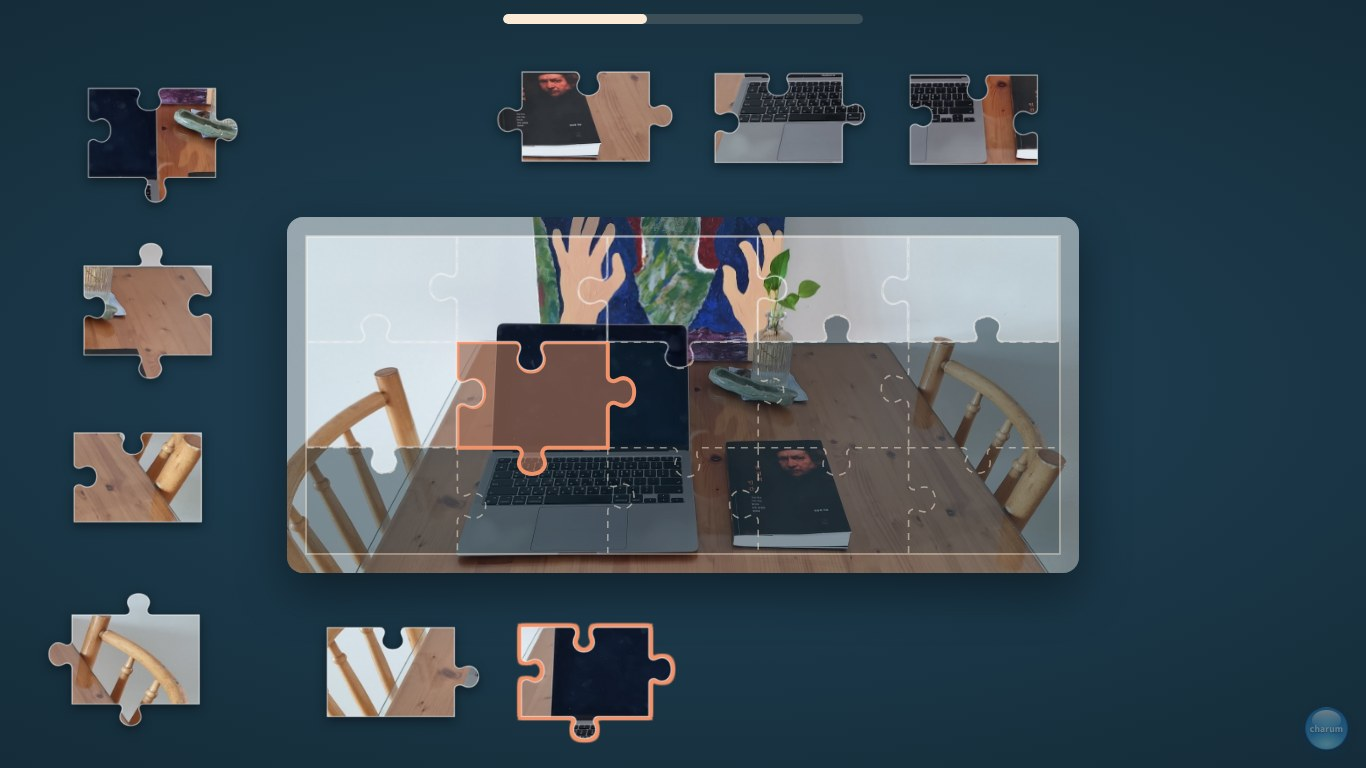
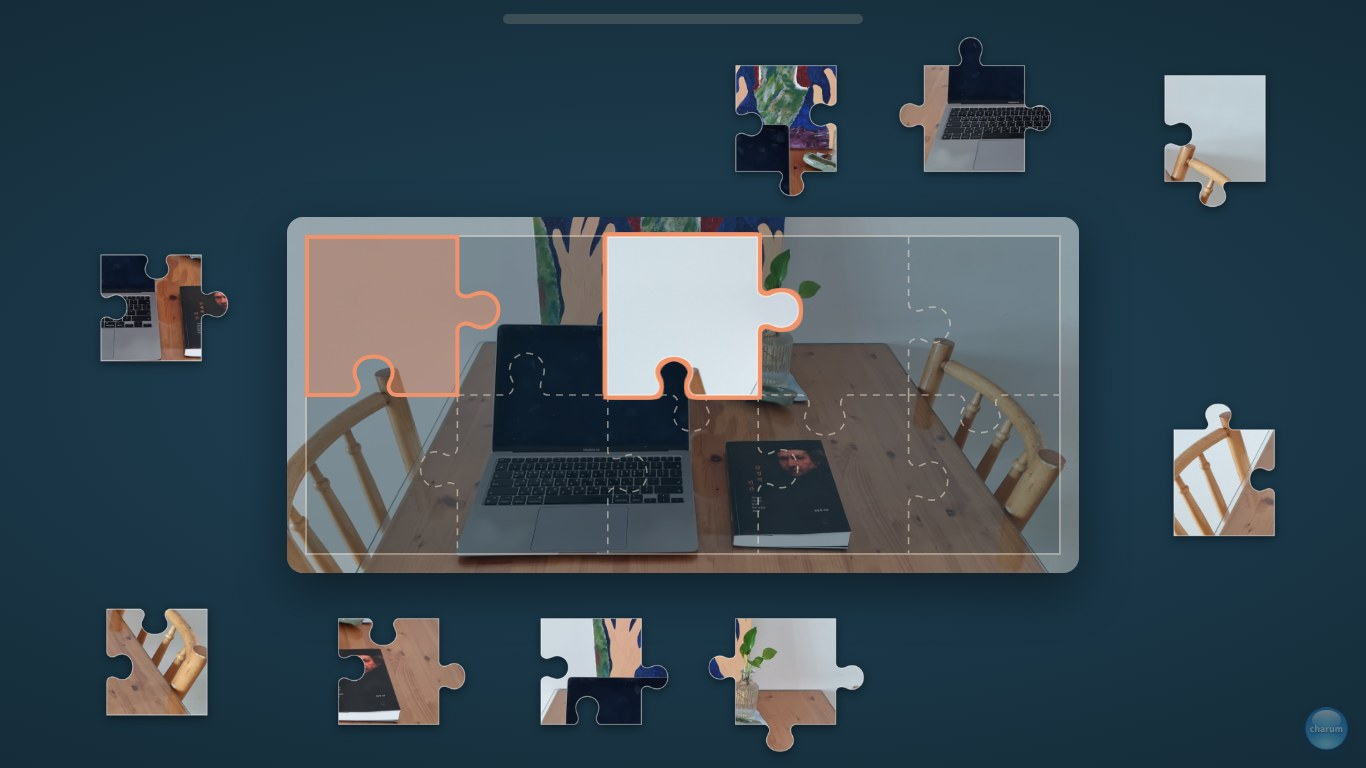
Add files via upload

diff --git a/002/picture-puzzle.html b/002/picture-puzzle.html
@@ -104,10 +104,12 @@ body.solo #soloBtns{display:flex}
 .pc.gone{opacity:0}
 
 /* ---------- 교사 모드: 떠 있는 두 줄 ---------- */
-.dock{position:fixed;left:50%;transform:translateX(-50%);z-index:30;display:none;align-items:center;gap:6px;flex-wrap:wrap;justify-content:center;
+.dock{position:fixed;left:0;right:0;margin:0 auto;width:fit-content;z-index:30;display:none;align-items:center;gap:6px;flex-wrap:wrap;justify-content:center;
   max-width:calc(100% - 24px);padding:8px 10px;border-radius:22px;background:rgba(15,36,48,.9);-webkit-backdrop-filter:blur(8px);backdrop-filter:blur(8px);
   box-shadow:0 10px 30px rgba(0,0,0,.35),inset 0 0 0 1px rgba(251,235,214,.14)}
 #dockTop{top:10px} #dockBot{bottom:12px}
+/* 도움말: 교사 메뉴 오른쪽 위 끝 */
+#helpTop{left:auto;right:12px;margin:0;padding:6px}
 body.admin:not(.setup) .dock{display:flex}
 .dock .grp{display:flex;align-items:center;gap:4px;padding:0 6px}
 .dock .grp+.grp{border-left:1px solid rgba(251,235,214,.18)}
@@ -158,6 +160,20 @@ body.admin #adminBtn{opacity:.6;border-color:rgba(10,20,26,.8);
   .pa-log{width:100%;border-collapse:collapse;font-size:9.5pt;margin-top:3mm}
   .pa-log td{border:1px solid #999;padding:1.2mm 2mm;text-align:left}
 }
+/* ---------- 도움말: 말풍선 둘러보기 ---------- */
+#tour{position:fixed;inset:0;z-index:70;display:none}
+#tour.show{display:block}
+#tourHole{position:fixed;border-radius:16px;box-shadow:0 0 0 9999px rgba(5,14,20,.62);transition:all .25s ease;pointer-events:none}
+#tourTip{position:fixed;width:min(340px,calc(100% - 24px));background:var(--cream);color:var(--ink);border-radius:16px;box-shadow:0 14px 40px rgba(0,0,0,.45);padding:16px 18px 12px;transition:top .25s ease,left .25s ease;font-family:var(--f-body)}
+#tourTip::before{content:"";position:absolute;left:var(--ax,40px);width:16px;height:16px;background:var(--cream);transform:rotate(45deg)}
+#tourTip.below::before{top:-7px} #tourTip.above::before{bottom:-7px}
+#tourTip h4{margin:0 0 6px;font-size:17px;font-family:var(--f-display);font-weight:400}
+#tourTip p{margin:0;font-size:14.5px;line-height:1.6}
+.tour-foot{display:flex;align-items:center;justify-content:space-between;margin-top:12px}
+.tour-foot span{font-size:12.5px;color:var(--muted);font-weight:700}
+.tour-foot div{display:flex;gap:6px}
+.tour-foot button{border:0;border-radius:10px;min-height:40px;padding:6px 14px;font-weight:700;font-size:14px;background:#EAD6BB;color:var(--ink);font-family:var(--f-body)}
+.tour-foot button.next{background:var(--coral)}
 @media (prefers-reduced-motion:reduce){.pc.anim,.pc.scatter,.pboard .full,.pc.placed,#prog i,#doneLabel{transition:none}}
 </style>
 </head>
@@ -174,8 +190,11 @@ body.admin #adminBtn{opacity:.6;border-color:rgba(10,20,26,.8);
 </div>
 <div class="dock" id="dockTop"></div>
 <div class="dock" id="dockBot"></div>
+<div class="dock" id="helpTop"></div>
 <div id="logPop" hidden></div>
 <button id="adminBtn" type="button" aria-label="교사 모드: 3초 동안 누르기"><span class="ab-label" id="abLabel">charum</span></button>
+<div id="tour"><div id="tourHole"></div><div id="tourTip" class="below"><h4 id="tourTitle"></h4><p id="tourText"></p>
+  <div class="tour-foot"><span id="tourStep"></span><div><button type="button" id="tourEnd">그만</button><button type="button" class="next" id="tourNext">다음</button></div></div></div></div>
 <div id="printArea"></div>
 
 <script>
@@ -196,7 +215,9 @@ const ICON={
   log:'<svg class="ic" viewBox="0 0 24 24"><path d="M5 4h14v16H5zM9 9h6M9 13h6M9 17h3"/></svg>',
   sndOn:'<svg class="ic" viewBox="0 0 24 24"><path d="M4 9h4l5-4v14l-5-4H4z"/><path d="M16.5 8.5a5 5 0 0 1 0 7"/></svg>',
   sndOff:'<svg class="ic" viewBox="0 0 24 24"><path d="M4 9h4l5-4v14l-5-4H4z"/><path d="M17 9.5l5 5M22 9.5l-5 5"/></svg>',
-  gear:'<svg class="ic" viewBox="0 0 24 24"><path d="M4 7h10M18 7h2M4 17h4M12 17h8"/><circle cx="16" cy="7" r="2"/><circle cx="10" cy="17" r="2"/></svg>'
+  gear:'<svg class="ic" viewBox="0 0 24 24"><path d="M4 7h10M18 7h2M4 17h4M12 17h8"/><circle cx="16" cy="7" r="2"/><circle cx="10" cy="17" r="2"/></svg>',
+  play:'<svg class="ic" viewBox="0 0 24 24"><path d="M7 4.5v15l12-7.5z" fill="currentColor"/></svg>',
+  q:'<svg class="ic" viewBox="0 0 24 24"><circle cx="12" cy="12" r="9.5"/><path d="M9.4 9.4a2.7 2.7 0 1 1 3.7 2.5c-.7.3-1.1.9-1.1 1.7v.5M12 17.2h.01"/></svg>'
 };
 /* 단계: 가로 5칸 고정, 줄 수 = 단계 */
 const LEVELS={1:{cols:5,rows:1},2:{cols:5,rows:2},3:{cols:5,rows:3},4:{cols:5,rows:4},5:{cols:5,rows:5}};
@@ -248,24 +269,33 @@ function leaveFull(){ try{ if(document.fullscreenElement) document.exitFullscree
 $('play').addEventListener('pointerdown',()=>{ if(!document.body.classList.contains('setup')) goFull(); },true);
 document.addEventListener('contextmenu',e=>{ if(!document.body.classList.contains('setup')) e.preventDefault(); });
 
-/* ================= 교사 모드 버튼 (3초 누르기) ================= */
+/* ================= 교사 모드 버튼 =================
+   열 때: 3초 동안 누르기 (학생이 실수로 열지 않게)
+   닫을 때: 한 번 누르면 바로 학생 화면(전체 화면) */
 (function(){
-  const ab=$('adminBtn'); let raf=0, t0=0, on=false;
+  const ab=$('adminBtn'); let raf=0, t0=0, on=false, justOpened=false, ignoreUntil=0;
   const stop=()=>{on=false; cancelAnimationFrame(raf); ab.style.setProperty('--p',0);};
   ab.addEventListener('pointerdown',e=>{
-    e.preventDefault(); e.stopPropagation(); try{ab.setPointerCapture(e.pointerId);}catch(_){}
+    e.preventDefault(); e.stopPropagation();
+    if(S.admin) return; /* 닫기는 click에서 바로 */
+    try{ab.setPointerCapture(e.pointerId);}catch(_){}
     on=true; t0=performance.now();
     const tick=()=>{ if(!on) return;
       const p=Math.min(1,(performance.now()-t0)/3000); ab.style.setProperty('--p',p);
-      if(p>=1){stop(); setAdmin(!S.admin); return;} raf=requestAnimationFrame(tick); };
+      if(p>=1){stop(); justOpened=true; setAdmin(true); return;} raf=requestAnimationFrame(tick); };
     raf=requestAnimationFrame(tick);
   });
-  ['pointerup','pointercancel','lostpointercapture'].forEach(ev=>ab.addEventListener(ev,stop));
+  ['pointerup','pointercancel','lostpointercapture'].forEach(ev=>ab.addEventListener(ev,()=>{ stop(); if(justOpened){ justOpened=false; ignoreUntil=performance.now()+500; } }));
+  ab.addEventListener('click',e=>{
+    e.stopPropagation();
+    if(performance.now()<ignoreUntil) return; /* 3초 눌러 연 직후 손을 뗄 때 생기는 click은 무시 */
+    if(S.admin){ setAdmin(false); goFull(); }
+  });
   ab.addEventListener('contextmenu',e=>e.preventDefault());
 })();
 function setAdmin(on){
   S.admin=on; document.body.classList.toggle('admin',on);
-  $('adminBtn').setAttribute('aria-label', on?'교사 모드 끄기: 3초 동안 누르기':'교사 모드: 3초 동안 누르기');
+  $('adminBtn').setAttribute('aria-label', on?'교사 모드 끄기: 한 번 누르기':'교사 모드: 3초 동안 누르기');
   $('abLabel').textContent=on?'심':'charum';
   if(!on) $('logPop').hidden=true;
   renderDocks();
@@ -277,13 +307,14 @@ function renderDocks(){
   const R=S.R, done=!!(R&&R.done);
   const b=(act,label,pressed,extra='')=>`<button type="button" data-a="${act}" ${pressed!=null?`aria-pressed="${pressed}"`:''} ${extra}>${label}</button>`;
   $('dockTop').innerHTML=
-    `<div class="grp"><span class="lbl">단계</span>${Object.keys(LEVELS).map(l=>b('lv:'+l,l,+l===S.level,`title="${pieceCount(+l)}조각"`)).join('')}</div>`+
-    `<div class="grp"><span class="lbl">모양</span>${Object.keys(SHAPES).map(k=>b('sh:'+k,SHAPES[k].replace(' 모양',''),k===S.shape)).join('')}</div>`+
-    `<div class="grp"><span class="lbl">밑그림</span>${Object.keys(GHOSTS).map(k=>b('gh:'+k,GHOSTS[k].replace('안 보이게','없음'),+k===S.ghost)).join('')}</div>`+
+    `<div class="grp" id="gLv"><span class="lbl">단계</span>${Object.keys(LEVELS).map(l=>b('lv:'+l,l,+l===S.level,`title="${pieceCount(+l)}조각"`)).join('')}</div>`+
+    `<div class="grp" id="gSh"><span class="lbl">모양</span>${Object.keys(SHAPES).map(k=>b('sh:'+k,SHAPES[k].replace(' 모양',''),k===S.shape)).join('')}</div>`+
+    `<div class="grp" id="gGh"><span class="lbl">밑그림</span>${Object.keys(GHOSTS).map(k=>b('gh:'+k,GHOSTS[k].replace('안 보이게','없음'),+k===S.ghost)).join('')}</div>`+
     `<div class="grp">${b('sfx',(S.sfx?ICON.sndOn:ICON.sndOff)+(S.sfx?'효과음':'효과음 끔'),S.sfx)}${b('setup',ICON.gear+'설정')}</div>`;
+  $('helpTop').innerHTML=b('tour',ICON.q+'도움말');
   $('dockBot').innerHTML = !R ? '' : done
-    ? `<div class="grp">${b('again',ICON.redo+'같은 그림 다시')}${S.level<5?b('nextlv',ICON.next+'다음 단계','', 'class="big"'):''}${b('setup',ICON.photo+'다른 사진으로')}${b('print',ICON.print+'출력')}${b('log',ICON.log+'기록',!$('logPop').hidden)}</div>`
-    : `<div class="grp">${b('help',ICON.help+'한 조각 도와주기',null,`class="big" ${R&&R.active?'':'disabled'}`)}${b('mix',ICON.mix+'다시 섞기',null,R&&R.active?'':'disabled')}${b('log',ICON.log+'기록',!$('logPop').hidden)}</div>`;
+    ? `<div class="grp">${b('student',ICON.play+'학생 화면으로',null,'class="big"')}</div><div class="grp">${b('again',ICON.redo+'같은 그림 다시')}${S.level<5?b('nextlv',ICON.next+'다음 단계'):''}${b('setup',ICON.photo+'다른 사진으로')}${b('print',ICON.print+'출력')}${b('log',ICON.log+'기록',!$('logPop').hidden)}</div>`
+    : `<div class="grp">${b('student',ICON.play+'학생 화면으로',null,'class="big"')}</div><div class="grp">${b('mix',ICON.mix+'다시 섞기',null,R&&R.active?'':'disabled')}${b('log',ICON.log+'기록',!$('logPop').hidden)}</div>`;
 }
 function onDock(e){
   const btn=e.target.closest('button[data-a]'); if(!btn) return;
@@ -293,14 +324,16 @@ function onDock(e){
   if(a==='gh'){ S.ghost=+v; store.set('ghost',S.ghost); applyGhost(); renderDocks(); }
   if(a==='sfx'){ S.sfx=!S.sfx; store.set('sfx',S.sfx?'on':'off'); renderDocks(); }
   if(a==='setup'){ leaveFull(); showSetup(); }
-  if(a==='help') helpOne();
+  /* 학생 화면으로: 메뉴를 닫고 바로 전체 화면으로 (들어올 때만 3초) */
+  if(a==='student'){ setAdmin(false); goFull(); return; }
+  if(a==='tour'){ startTour(); return; }
   if(a==='mix') remix();
   if(a==='again') startRound();
   if(a==='nextlv'){ S.level=Math.min(5,S.level+1); store.set('level',S.level); startRound(); }
   if(a==='print') printSheet();
   if(a==='log'){ $('logPop').hidden=!$('logPop').hidden; renderLog(); renderDocks(); }
 }
-$('dockTop').addEventListener('click',onDock); $('dockBot').addEventListener('click',onDock);
+$('dockTop').addEventListener('click',onDock); $('dockBot').addEventListener('click',onDock); $('helpTop').addEventListener('click',onDock);
 function fmtTime(ms){ const s=Math.round(ms/1000); return s<60?`${s}초`:`${Math.floor(s/60)}분 ${s%60}초`; }
 function renderLog(){
   const rows=S.rounds.map((l,i)=>`<tr><td>${i+1}</td><td>${l.level}단계 · ${SHAPES[l.shape]}</td><td>${l.n}</td><td>${l.first}</td><td>${l.helped}</td><td>${fmtTime(l.ms)}</td></tr>`).join('');
@@ -388,7 +421,7 @@ function showSetup(){
       ${tile('sfx','on',S.sfx?'on':'off','켬<small>맞추면 작게 "톡"</small>')}
       ${tile('sfx','off',S.sfx?'on':'off','끔<small>소리 없이</small>')}
     </div>
-      <p class="hint">학생 화면에는 메뉴가 없어요. 오른쪽 아래 옅은 동그라미를 <b>3초 동안 누르면</b> 교사 메뉴(단계·모양·밑그림, 한 조각 도와주기, 다시 섞기, 기록, 출력, 설정)가 나타나요.</p>
+      <p class="hint">학생 화면에는 메뉴가 없어요. 오른쪽 아래 옅은 동그라미를 <b>3초 동안 누르면</b> 교사 메뉴(단계·모양·밑그림, 학생 화면으로, 다시 섞기, 기록, 출력, 설정, 도움말)가 나타나요. 다 바꾼 뒤 <b>학생 화면으로</b>를 누르면 바로 전체 화면으로 이어서 해요.</p>
     </div>
     <div class="paper-foot">
       <button class="pbtn" id="demoBtn" type="button">예시 사진으로 해 보기</button>
@@ -557,7 +590,7 @@ function layout(){
   const list=R.pieces.filter(p=>!p.placed);
   const slots=shuffleArr(G.slots.slice()).slice(0,list.length);
   slots.sort((a,b)=>a.k-b.k);
-  shuffleArr(list).forEach((p,i)=>{ p.slot={x:slots[i].x,y:slots[i].y,s:G.s}; if(!p.dragging&&(R.active||R.done)){ p.x=p.slot.x; p.y=p.slot.y; p.s=G.s; } });
+  shuffleArr(list).forEach((p,i)=>{ p.slot={x:slots[i].x,y:slots[i].y,s:G.s}; if(!p.dragging&&(R.active||R.done)){ if(p.free) clampPiece(p); else { p.x=p.slot.x; p.y=p.slot.y; p.s=G.s; } } });
   R.pieces.forEach(p=>{ if(p.placed){ p.x=G.ix+p.c*G.pw-G.m; p.y=G.iy+p.r*G.ph-G.m; p.s=1; } if(!p.dragging) setPos(p); });
   if(R.cue) showTarget(R.cue);
   placeDoneLabel();
@@ -614,6 +647,8 @@ function drawPiece(p){
   ctx.lineJoin='round'; ctx.lineWidth=1.4; ctx.strokeStyle='rgba(255,255,255,.55)'; ctx.stroke();
 }
 function setPos(p){ p.el.style.transform=`translate(${p.x}px,${p.y}px) scale(${p.s})`; }
+function clampPiece(p){ const pl=$('play'), W=pl.clientWidth, H=pl.clientHeight, w=G.EW*p.s, h=G.EH*p.s; p.x=Math.min(Math.max(0,p.x),W-w); p.y=Math.min(Math.max(0,p.y),H-h);
+  if(p.x+w>W-74&&p.y+h>H-74) p.x=Math.max(0,W-74-w); /* 관리 버튼은 가리지 않게 */ }
 function updateProgress(){ const R=S.R; if(!R) return; $('progFill').style.width=(R.pieces.filter(p=>p.placed).length/R.pieces.length*100)+'%'; }
 function showTarget(p){ hideTarget(); const t=document.createElementNS('http://www.w3.org/2000/svg','path'); t.setAttribute('class','target'); t.id='target'; t.setAttribute('d',chainD(pieceChain(p,S.R,G))+'Z'); $('guide').appendChild(t); }
 function hideTarget(){ const t=$('target'); if(t) t.remove(); }
@@ -649,14 +684,15 @@ function drop(p){
   if(Math.hypot(p.x-cx,p.y-cy)<thr){ place(p,false); return; }
   const mx=p.x+G.EW/2, my=p.y+G.EH/2;
   const over=mx>G.ix-10&&mx<G.ix+G.iw+10&&my>G.iy-10&&my<G.iy+G.ih+10;
-  p.el.classList.add('anim'); p.x=p.slot.x; p.y=p.slot.y; p.s=p.slot.s; setPos(p);
+  /* 맞추지 못하면 원래 자리로 돌아가지 않고 놓은 곳에 그대로 (화면 밖으로는 안 나가게) */
+  p.free=true; clampPiece(p); setPos(p); $('play').appendChild(p.el);
   if(over){ p.miss++; if(S.errorMode==='show'||(S.errorMode==='retry'&&p.miss>=2)) cue(p); }
 }
 /* 조각과 제자리를 같은 색으로 표시 */
 function cue(p){ const R=S.R; if(R.cue&&R.cue!==p) R.cue.el.classList.remove('cue'); R.cue=p; p.el.classList.add('cue'); showTarget(p); }
 function place(p,byHelp){
   const R=S.R;
-  p.placed=true; if(byHelp) p.help=true;
+  p.placed=true; p.free=false; if(byHelp) p.help=true;
   p.x=G.ix+p.c*G.pw-G.m; p.y=G.iy+p.r*G.ph-G.m; p.s=1;
   p.el.classList.toggle('anim',byHelp); p.el.classList.remove('cue'); p.el.classList.add('placed','snap'); setPos(p);
   setTimeout(()=>p.el.classList.remove('snap'),byHelp?380:60);
@@ -664,18 +700,12 @@ function place(p,byHelp){
   sfx('snap'); updateProgress();
   if(R.pieces.every(x=>x.placed)) complete();
 }
-/* 교사: 한 조각 도와주기 (도움 받아 맞힘으로 기록) */
-function helpOne(){
-  const R=S.R; if(!R||!R.active) return;
-  const p=(R.cue&&!R.cue.placed)?R.cue:R.pieces.filter(x=>!x.placed).sort((a,b)=>a.order-b.order)[0];
-  if(p) place(p,true);
-}
 /* 교사: 남은 조각 다시 섞기 */
 function remix(){
   const R=S.R; if(!R||!R.active) return;
   if(R.cue){ R.cue.el.classList.remove('cue'); R.cue=null; hideTarget(); }
   const list=R.pieces.filter(p=>!p.placed), slots=shuffleArr(G.slots.slice()).slice(0,list.length);
-  list.forEach((p,i)=>{ p.slot={x:slots[i].x,y:slots[i].y,s:G.s}; p.el.classList.add('anim'); p.x=p.slot.x; p.y=p.slot.y; p.s=G.s; setPos(p); });
+  list.forEach((p,i)=>{ p.free=false; p.slot={x:slots[i].x,y:slots[i].y,s:G.s}; p.el.classList.add('anim'); p.x=p.slot.x; p.y=p.slot.y; p.s=G.s; setPos(p); });
 }
 function complete(){
   const R=S.R; R.active=false; R.done=true;
@@ -706,9 +736,53 @@ async function printSheet(){
   window.print();
 }
 
+/* ================= 도움말: 교사 메뉴를 말풍선으로 하나씩 ================= */
+const TOUR_STEPS=[
+  {el:'#gLv', t:'단계', x:'줄 수를 정해요. 1단계 5조각부터 5단계 25조각까지. 누르면 바로 새 판이 시작돼요.'},
+  {el:'#gSh', t:'모양', x:'둥근 꼭지가 있는 퍼즐 모양과 곧은 선의 사각형 가운데 골라요.'},
+  {el:'#gGh', t:'밑그림', x:'판에 보이는 그림의 진하기예요. 익숙해질수록 흐리게, 없음으로 바꿔요.'},
+  {el:'#dockTop [data-a="sfx"]', t:'효과음', x:'조각을 맞출 때 나는 작은 소리를 켜고 꺼요.'},
+  {el:'#dockTop [data-a="setup"]', t:'설정', x:'처음 설정 화면으로 가서 사진, 누가 쓰는지, 다른 자리에 놓았을 때의 도움 방식을 바꿔요.'},
+  {el:'#dockBot [data-a="student"]', t:'학생 화면으로', x:'메뉴를 닫고 바로 전체 화면으로 학생이 이어서 해요. 메뉴는 오른쪽 아래 동그라미를 3초 누르면 다시 열려요.'},
+  {el:'#dockBot [data-a="mix"]', t:'다시 섞기', x:'남은 조각을 판 둘레에 다시 흩어 놓아요. 학생이 아무 데나 놓아 둔 조각도 정리돼요.'},
+  {el:'#dockBot [data-a="again"]', t:'같은 그림 다시', x:'같은 사진으로 한 번 더 해요.'},
+  {el:'#dockBot [data-a="nextlv"]', t:'다음 단계', x:'조각을 한 줄 늘려 다시 해요.'},
+  {el:'#dockBot [data-a="setup"]', t:'다른 사진으로', x:'설정 화면에서 다른 사진을 골라요.'},
+  {el:'#dockBot [data-a="print"]', t:'출력', x:'오려서 맞추는 종이 퍼즐과 기록을 A4 한 장으로 인쇄해요.'},
+  {el:'#dockBot [data-a="log"]', t:'기록', x:'다 맞춘 판마다 바로 맞힘, 도움 받아 맞힘(제자리 표시를 본 조각), 걸린 시간을 보여 줘요.'},
+  {el:'#adminBtn', t:'관리 버튼', x:'이 동그라미를 3초 누르면 교사 메뉴가 열려요(학생이 실수로 열지 않게). 메뉴가 열려 있을 때 한 번 누르면 바로 학생 화면으로 돌아가요.'}
+];
+const TOUR={on:false,i:0,list:[]};
+function startTour(){
+  $('logPop').hidden=true; renderDocks();
+  TOUR.list=TOUR_STEPS.filter(s=>document.querySelector(s.el)); TOUR.i=0; TOUR.on=true;
+  $('tour').classList.add('show'); showStep();
+}
+function showStep(){
+  const s=TOUR.list[TOUR.i]; if(!s) return endTour();
+  $('tourTitle').textContent=s.t; $('tourText').textContent=s.x;
+  $('tourStep').textContent=(TOUR.i+1)+' / '+TOUR.list.length;
+  $('tourNext').textContent=TOUR.i===TOUR.list.length-1?'끝':'다음';
+  placeTour();
+}
+function placeTour(){
+  const s=TOUR.list[TOUR.i]; if(!s) return; const el=document.querySelector(s.el); if(!el) return;
+  const r=el.getBoundingClientRect(), pad=6, hole=$('tourHole'), tip=$('tourTip');
+  Object.assign(hole.style,{left:(r.left-pad)+'px',top:(r.top-pad)+'px',width:(r.width+pad*2)+'px',height:(r.height+pad*2)+'px'});
+  const tw=tip.offsetWidth, th=tip.offsetHeight;
+  const below=r.bottom+pad+14+th<innerHeight-8 || r.top-pad-14-th<8;
+  const top=below?r.bottom+pad+14:r.top-pad-14-th, left=Math.min(Math.max(12,r.left+r.width/2-tw/2),innerWidth-tw-12);
+  tip.className=below?'below':'above'; tip.style.top=top+'px'; tip.style.left=left+'px';
+  tip.style.setProperty('--ax',Math.min(tw-28,Math.max(12,r.left+r.width/2-left-8))+'px');
+}
+function endTour(){ TOUR.on=false; $('tour').classList.remove('show'); }
+$('tourNext').addEventListener('click',()=>{ TOUR.i++; showStep(); });
+$('tourEnd').addEventListener('click',endTour);
+document.addEventListener('keydown',e=>{ if(TOUR.on&&e.key==='Escape') endTour(); });
+
 /* 화면 크기가 바뀌면(전체 화면, 돌리기, 교사 메뉴) 맞춘 조각은 그대로 두고 다시 배치 */
 let rzT=null;
-window.addEventListener('resize',()=>{ clearTimeout(rzT); rzT=setTimeout(layout,150); });
+window.addEventListener('resize',()=>{ clearTimeout(rzT); rzT=setTimeout(()=>{ layout(); if(TOUR.on) placeTour(); },150); });
 
 /* ================= 시작 ================= */
 $('againBtn').innerHTML=ICON.redo+'다시 하기'; $('otherBtn').innerHTML=ICON.photo+'다른 사진';

diff --git a/002/picture-puzzle_manual.html b/002/picture-puzzle_manual.html
@@ -34,7 +34,7 @@
 <div style="margin:0 0 22px;">
   <p style="margin:0 0 6px;font-size:17px;"><span style="display:inline-block;min-width:26px;height:26px;line-height:26px;margin-right:6px;border-radius:13px;background:#17303E;color:#FBEBD6;text-align:center;font-size:14px;font-weight:bold;">3</span><b>다른 자리에 놓았을 때</b></p>
   <img src="https://shim-sung-hyun.github.io/web_app/002/picture-puzzle03.jpg" alt="자리 보여주기 화면" style="display:block;width:100%;height:auto;border:1px solid #D9CBB6;border-radius:8px;">
-  <p style="margin:6px 0 0;font-size:14px;color:#6A7276;">▲ 조각은 원래 자리로 돌아가고, 그 조각과 제자리에 같은 주황색 표시가 생깁니다. "성공할 때까지"를 고르면 표시 없이 스스로 다시 합니다.</p>
+  <p style="margin:6px 0 0;font-size:14px;color:#6A7276;">▲ 조각은 원래 자리로 돌아가지 않고 놓은 곳에 그대로 머뭅니다. 그 조각과 제자리에 같은 주황색 표시가 생깁니다. "성공할 때까지"를 고르면 표시 없이 스스로 다시 합니다.</p>
 </div>
 <div style="margin:0 0 22px;">
   <p style="margin:0 0 6px;font-size:17px;"><span style="display:inline-block;min-width:26px;height:26px;line-height:26px;margin-right:6px;border-radius:13px;background:#17303E;color:#FBEBD6;text-align:center;font-size:14px;font-weight:bold;">4</span><b>완성</b></p>
@@ -50,13 +50,16 @@
 </div>
 
 <h3 style="margin:28px 0 8px;padding:6px 12px;background:#FBEBD6;border-radius:8px;font-size:20px;color:#17303E;">교사 모드</h3>
-<p style="margin:0 0 10px;">화면 오른쪽 아래의 작은 파란 유리알 버튼(<b>charum</b>)을 <b>3초 동안 누르면</b> 켜지고(<b>심</b>), 한 번 더 3초 누르면 꺼집니다.</p>
+<p style="margin:0 0 10px;">화면 오른쪽 아래의 작은 파란 유리알 버튼(<b>charum</b>)을 <b>3초 동안 누르면</b> 켜집니다(<b>심</b>). 설정을 마친 뒤 아래쪽 <b>학생 화면으로</b>를 누르거나 관리 버튼을 <b>한 번</b> 누르면, 메뉴가 닫히고 바로 전체 화면으로 이어서 합니다.</p>
 <ul style="margin:0 0 12px;padding-left:24px;">
   <li style="margin-bottom:6px;"><b>위쪽</b>: 단계(1~5), 모양(퍼즐 · 사각형), 밑그림, 효과음, 설정. 단계나 모양을 바꾸면 새 판이 바로 시작됩니다.</li>
-  <li style="margin-bottom:6px;"><b>아래쪽 (맞추는 중)</b>: 한 조각 도와주기, 다시 섞기, 기록.</li>
-  <li style="margin-bottom:6px;"><b>아래쪽 (다 맞춘 뒤)</b>: 같은 그림 다시, 다음 단계, 다른 사진으로, 출력, 기록(바로 맞힘 / 도움 받아 맞힘 / 걸린 시간).</li>
+  <li style="margin-bottom:6px;"><b>오른쪽 위 끝 도움말</b>: 메뉴의 단추를 말풍선으로 하나씩 짚어 설명합니다.</li>
+  <li style="margin-bottom:6px;"><b>아래쪽 (맞추는 중)</b>: 학생 화면으로, 다시 섞기(아무 데나 놓아 둔 조각도 판 둘레로 정리), 기록. 조각을 대신 옮겨 줄 때는 선생님이 직접 끌어다 놓으면 됩니다.</li>
+  <li style="margin-bottom:6px;"><b>아래쪽 (다 맞춘 뒤)</b>: 학생 화면으로, 같은 그림 다시, 다음 단계, 다른 사진으로, 출력, 기록(바로 맞힘 / 도움 받아 맞힘 / 걸린 시간).</li>
   <li style="margin-bottom:6px;"><b>출력</b>: 방금 한 퍼즐과 똑같은 자를 선을 그린 그림과 기록을 A4 한 장에 인쇄합니다. 오려서 종이 퍼즐로 다시 해 볼 수 있습니다.</li>
 </ul>
+<img src="https://shim-sung-hyun.github.io/web_app/002/picture-puzzle07.jpg" alt="도움말 말풍선" style="display:block;width:100%;height:auto;border:1px solid #D9CBB6;border-radius:8px;margin:0 0 6px;">
+<p style="margin:0 0 14px;font-size:14px;color:#6A7276;">▲ 도움말: 단추마다 말풍선이 하나씩 설명합니다.</p>
 <p style="margin:0 0 12px;">기록은 화면을 닫으면 사라집니다. 필요하면 출력하거나 화면을 캡처해 두세요.</p>
 
 <h3 style="margin:28px 0 8px;padding:6px 12px;background:#FBEBD6;border-radius:8px;font-size:20px;color:#17303E;">좋은 사진과 주의할 점</h3>
